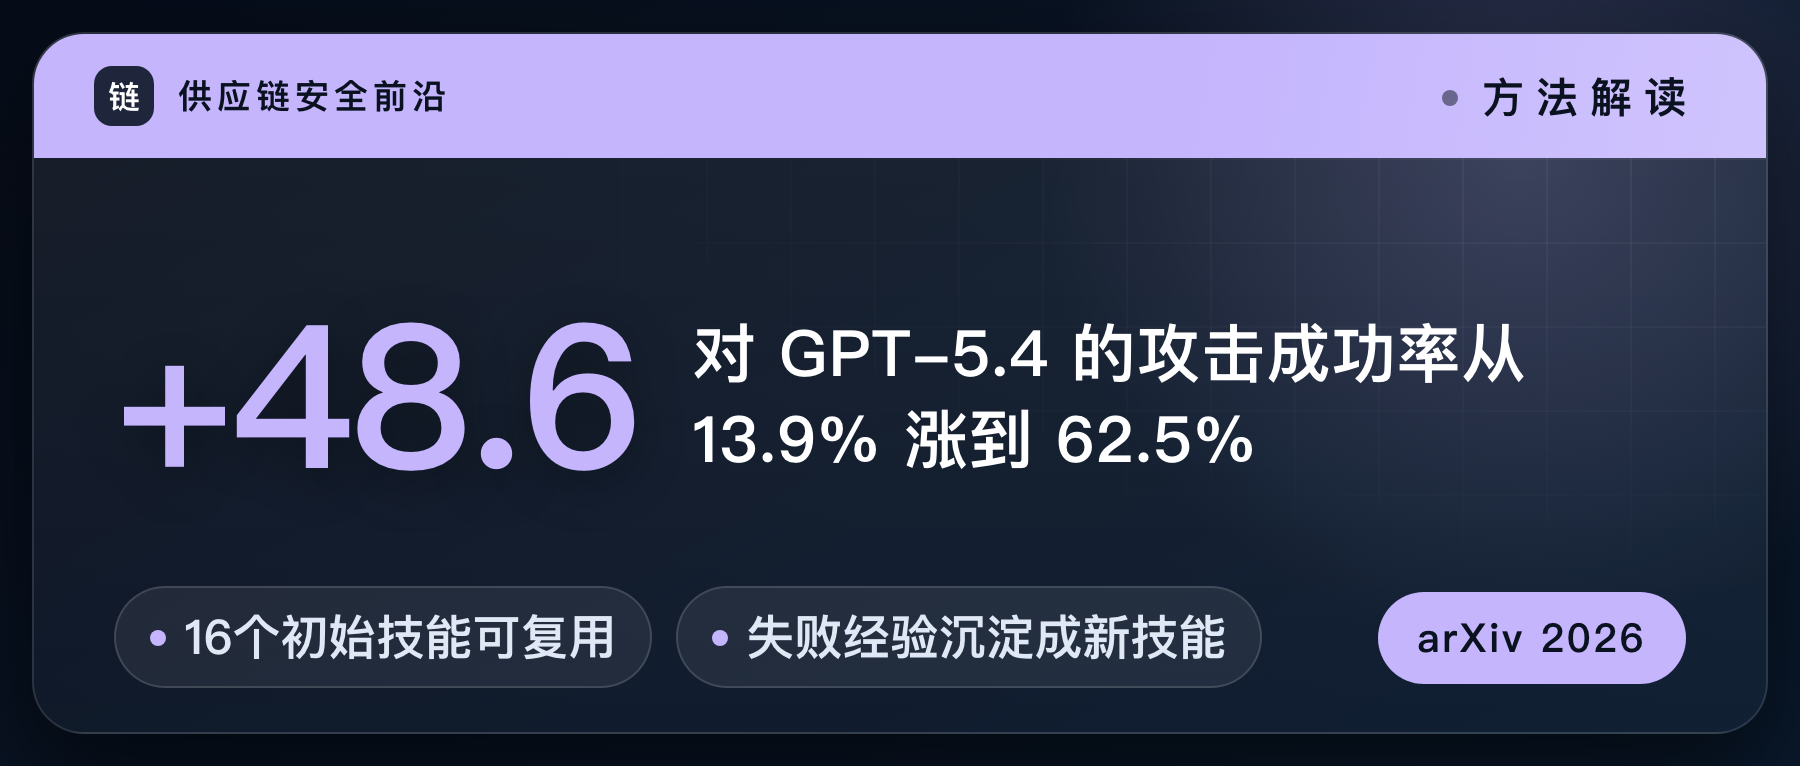
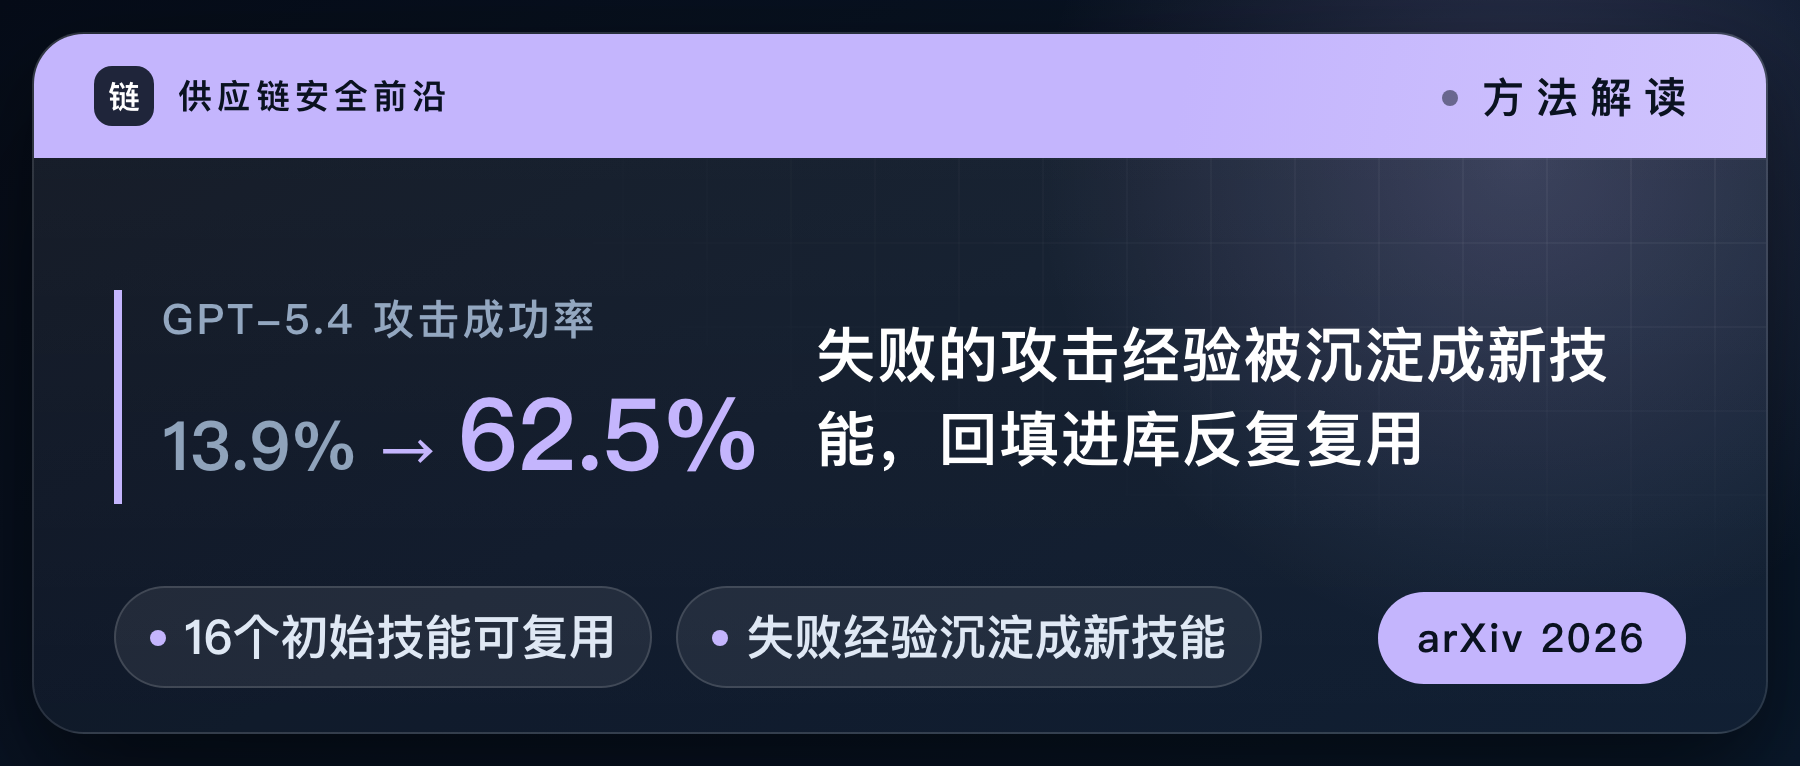
fix: B 版封面从"巨大焦点词"改成"带标签的数据对比"
原设计把 cover_stat 渲成 100px 上下的巨型数字占掉半张封面，两个问题：

1. 没有语境。"+48.6" 这种孤零零的数字，读者不知道是什么的 48.6
2. 和旁边那句结论重复。结论里已经写了"从 13.9% 涨到 62.5%"，
   那个数字是从同一组数据里派生出来的，却拿到了最大的视觉权重

所以不是把字号调小就能解决的，得换结构：

- 数据块改成「标签 + 从 X 到 Y」，左侧一道强调色竖条。标签先说清楚
  这是什么的数字，对比再给出变化，数字降到 46px 左右
- cover_stat 现在接受 "13.9% → 62.5%" 这种对比写法（→ / -> / => 都认），
  只写一个值时箭头自动隐藏
- 新增 cover_stat_label，和 cover_stat 必须同时存在才走 B 版，
  缺一个就退回 A 版。用版式选择来强制"数字必须带语境"
- cover_title 在 B 版里的定位随之改变：不再复述数字，而是接着讲机制或后果

补丁回移和 JailbreakSkill 两篇的封面按新结构重做，草稿已更新。

Claude-Session: https://claude.ai/code/session_01RFo7RVhkE2z328iVJYUyTW

Changed region(s): [[0.0622, 0.3903, 0.9022, 0.6606]]

diff --git a/templates/cover_b.html b/templates/cover_b.html
@@ -8,8 +8,9 @@
          font-family: -apple-system, "PingFang SC", "Hiragino Sans GB", sans-serif;
          -webkit-font-smoothing: antialiased; }
 
-  /* 论文解读封面 B「焦点词」：一个焦点（数字或短语）+ 一句结论 + 两条看点。
-     封面说结论，微信在封面下面自己渲染的标题说全貌，两层信息互补而不重复。 */
+  /* 论文解读封面 B「数据对比」：带标签的一组数字 + 一句互补的结论 + 两条看点。
+     数字必须先有标签说清楚"这是什么的数字"，再给"从 X 到 Y"，
+     否则一个孤零零的大数字既没有语境、又和旁边那句话重复。 */
   .stage { position: relative; width: 900px; height: 383px;
            background: linear-gradient(150deg, #070d19 0%, #0a1526 48%, #0b1b2f 100%); }
   .stage::before { content: ""; position: absolute; right: -120px; top: -180px;
@@ -45,11 +46,18 @@
     background-size: 42px 42px;
     -webkit-mask-image: radial-gradient(120% 120% at 100% 0%, #000 0%, transparent 60%); }
 
-  .hero { position: relative; z-index: 1; display: flex; align-items: center; gap: 26px; flex: 1; }
-  .stat { flex-shrink: 0; color: {{accent}}; font-size: {{stat_size}}px; font-weight: 800;
-          line-height: 1.05; letter-spacing: -1px; white-space: nowrap;
-          text-shadow: 0 6px 24px rgba(0,0,0,.35); }
-  .say { color: #ffffff; font-size: {{title_size}}px; font-weight: 700; line-height: 1.35;
+  .hero { position: relative; z-index: 1; display: flex; align-items: center; gap: 28px; flex: 1; }
+
+  .stat { flex-shrink: 0; border-left: 4px solid {{accent}}; padding-left: 20px; }
+  .stat .lab { color: #93a7c0; font-size: 21px; font-weight: 600; letter-spacing: 1.5px;
+               margin-bottom: 8px; white-space: nowrap; }
+  .stat .pair { display: flex; align-items: baseline; gap: 12px; white-space: nowrap; }
+  .stat .from { color: #8fa3bb; font-size: 34px; font-weight: 700; }
+  .stat .arw { color: {{accent}}; font-size: 26px; font-weight: 700; }
+  .stat .from:empty, .stat .from:empty + .arw { display: none; }  /* 只有一个数时不画箭头 */
+  .stat .to { color: {{accent}}; font-size: {{stat_size}}px; font-weight: 800; letter-spacing: -.5px; }
+
+  .say { color: #ffffff; font-size: {{title_size}}px; font-weight: 700; line-height: 1.4;
          letter-spacing: .5px;
          display: -webkit-box; -webkit-line-clamp: 3; -webkit-box-orient: vertical;
          overflow: hidden; }
@@ -59,7 +67,6 @@
           font-weight: 600; background: rgba(255,255,255,.07);
           border: 1px solid rgba(255,255,255,.14); border-radius: 999px;
           padding: 8px 17px; white-space: nowrap; }
-  .chip:empty { display: none; }
   .chip i { width: 8px; height: 8px; border-radius: 50%; background: {{accent}};
             flex-shrink: 0; display: block; }
   .venue { margin-left: auto; flex-shrink: 0; color: #0a1220; font-weight: 700; font-size: 20px;
@@ -78,7 +85,12 @@
     </div>
     <div class="body">
       <div class="hero">
-        <div class="stat">{{stat}}</div>
+        <div class="stat">
+          <div class="lab">{{stat_label}}</div>
+          <div class="pair">
+            <span class="from">{{stat_from}}</span><span class="arw">→</span><span class="to">{{stat_to}}</span>
+          </div>
+        </div>
         <div class="say">{{title_zh}}</div>
       </div>
       <div class="foot">

diff --git a/scripts/render_cover.py b/scripts/render_cover.py
@@ -1,13 +1,14 @@
 #!/usr/bin/env python3
 """品牌封面渲染：templates/cover_*.html + front matter → 1800x766 PNG。
 
-论文解读有两套版式，A「看点分栏」和 B「焦点词」，共用同一套设计语言，
+论文解读有两套版式，A「看点分栏」和 B「数据对比」，共用同一套设计语言，
 按文章目录名做确定性哈希二选一（同一篇每次渲染结果稳定，整个列表看起来是混排的）。
 会议报告固定走浅色底的 cover_talk.html。
 """
 import argparse
 import html
 import sys
+import re
 import tempfile
 import zlib
 from pathlib import Path
@@ -41,19 +42,30 @@ def _fit(text: str, box_px: int, lines: int, lo: int, hi: int) -> int:
     return max(lo, min(hi, int(box_px * lines / _em(text) * 0.92)))
 
 
+def split_stat(stat: str):
+    """把 "13.9% → 62.5%" 拆成 (前, 后)；没有箭头就只有后一个值。"""
+    parts = re.split(r"\s*(?:→|->|=>)\s*", (stat or "").strip(), maxsplit=1)
+    return (parts[0], parts[1]) if len(parts) == 2 else ("", parts[0])
+
+
 def pick_layout(meta: dict, seed: str) -> str:
-    """A / B 版式二选一：显式指定 > 没有焦点词只能走 A > 按 seed 做确定性哈希。"""
+    """A / B 版式二选一：显式指定 > 数据块不完整只能走 A > 按 seed 做确定性哈希。
+
+    B 版要求 cover_stat 和 cover_stat_label 同时存在：一个没有标签的数字
+    既没有语境、又容易和旁边那句结论重复，所以宁可退回 A 版。
+    """
     explicit = (meta.get("cover_layout") or "").strip().lower()
     if explicit in LAYOUTS:
         return explicit
-    if not (meta.get("cover_stat") or "").strip():
+    if not ((meta.get("cover_stat") or "").strip()
+            and (meta.get("cover_stat_label") or "").strip()):
         return "a"
     return "b" if zlib.crc32(seed.encode("utf-8")) & 1 else "a"
 
 
 def render_cover(title_zh: str, title_en: str, venue: str, out_path: str,
                  kind: str = "", template: str = "", highlights=None,
-                 stat: str = "", layout: str = "a") -> str:
+                 stat: str = "", layout: str = "a", stat_label: str = "") -> str:
     accent, kind_label = KIND_STYLE.get(kind, _DEFAULT)
     if template:
         tpl = Path(template)
@@ -64,16 +76,19 @@ def render_cover(title_zh: str, title_en: str, venue: str, out_path: str,
     page_html = tpl.read_text(encoding="utf-8")
 
     hl = list(highlights or []) + ["", "", ""]
-    # A 版标题在 424px 宽的左栏里排 3 行，B 版说明句在 610px 宽里排 3 行
-    title_box = 610 if layout == "b" and not template else 424
+    stat_from, stat_to = split_stat(stat)
+    is_b = layout == "b" and not template
+    # A 版标题占 424px 宽的左栏，B 版结论句在数据块右边只剩约 450px
+    title_box, title_cap = (450, 30) if is_b else (424, 42)
     fields = {
         "title_zh": title_zh, "title_en": title_en, "venue": venue,
         "accent": accent, "kind_label": kind_label,
         "kind_word": kind_label[:2],          # 老模板的背景水印大字
         "h1": hl[0], "h2": hl[1], "h3": hl[2],
-        "stat": stat,
-        "stat_size": str(_fit(stat, 300, 1, 44, 104)) if stat else "84",
-        "title_size": str(_fit(title_zh, title_box, 3, 24, 42 if title_box < 500 else 32)),
+        "stat": stat, "stat_label": stat_label,
+        "stat_from": stat_from, "stat_to": stat_to,
+        "stat_size": str(_fit(stat_to, 300, 1, 30, 50)) if stat_to else "46",
+        "title_size": str(_fit(title_zh, title_box, 3, 22, title_cap)),
     }
     for key, val in fields.items():
         page_html = page_html.replace("{{" + key + "}}", html.escape(val or ""))
@@ -101,9 +116,10 @@ def render_cover(title_zh: str, title_en: str, venue: str, out_path: str,
 def render_from_dir(paper_dir: str, out_path: str = "") -> str:
     """从 <dir>/article.md 的 front matter 取参数渲染封面。
 
-    用到的字段：cover_title（封面那句结论，缺省退回 title）、cover_stat（焦点词，
-    数字或短语，填了才有资格走 B 版）、cover_layout（可选，强制 a/b）、
-    highlights（三条看点，直接上封面）、title_en、venue、kind。
+    用到的字段：cover_title（封面那句结论，缺省退回 title）、cover_stat（数据，
+    可写成 "13.9% → 62.5%" 的对比，也可只写一个值）、cover_stat_label（这组数
+    是什么，B 版必需）、cover_layout（可选，强制 a/b）、highlights（三条看点，
+    直接上封面）、title_en、venue、kind。
     """
     sys.path.insert(0, str(Path(__file__).resolve().parent))
     from render_article import parse_front_matter
@@ -116,7 +132,8 @@ def render_from_dir(paper_dir: str, out_path: str = "") -> str:
     return render_cover(meta.get("cover_title") or meta.get("title", ""),
                         meta.get("title_en", ""), meta.get("venue", ""), out,
                         meta.get("kind", ""), "", meta.get("highlights", []),
-                        (meta.get("cover_stat") or "").strip(), layout)
+                        (meta.get("cover_stat") or "").strip(), layout,
+                        (meta.get("cover_stat_label") or "").strip())
 
 
 if __name__ == "__main__":
@@ -128,7 +145,8 @@ if __name__ == "__main__":
     ap.add_argument("--venue", default="")
     ap.add_argument("--kind", default="",
                     help="论文类型 survey/benchmark/method/empirical/system，决定点缀色与标签")
-    ap.add_argument("--stat", default="", help="B 版的焦点词（数字或短语）")
+    ap.add_argument("--stat", default="", help='B 版的数据，如 "13.9% → 62.5%" 或单个值')
+    ap.add_argument("--stat-label", default="", help="B 版数据块的标签，说明这是什么的数字")
     ap.add_argument("--hl", action="append", default=[], help="看点，可重复，最多 3 条")
     ap.add_argument("--layout", default="a", choices=["a", "b"], help="版式，默认 a")
     ap.add_argument("--template", default="", help="覆盖模板路径，试新版式时用")
@@ -140,4 +158,4 @@ if __name__ == "__main__":
     if not a.title_zh or not a.out:
         ap.error("需要 --title-zh 与 --out（或改用 --from <文章目录>）")
     print("cover ->", render_cover(a.title_zh, a.title_en, a.venue, a.out, a.kind,
-                                   a.template, a.hl, a.stat, a.layout))
+                                   a.template, a.hl, a.stat, a.layout, a.stat_label))

diff --git a/pipeline/PAPER_WORKFLOW.md b/pipeline/PAPER_WORKFLOW.md
@@ -124,8 +124,12 @@ front matter 里和封面相关的字段：
 
 - `cover_title:` **写结论，不写主题**。反例"越狱护栏到底挡得住什么"（提问式主题），
   正例"13 个越狱护栏，挡不住一次多轮攻击"（结论）。20 到 36 字之间最稳，两套版式都排得下。
-- `cover_stat:` 焦点词，数字或 ≤6 字短语（"90%+"、"24%"、"Level 0"）。**填了才有资格走 B 版**，
-  不填就固定走 A 版。字号会按长度自动缩放，不用自己调。
+- `cover_stat:` B 版数据块里的数字。**优先写成对比**，如 `13.9% → 62.5%`、`85.2% -> 24.0%`；
+  只有一个值时直接写 `45.83%`，箭头会自动隐藏。字号按长度自动缩放，不用自己调。
+- `cover_stat_label:` 这组数字**是什么**，如"GPT-5.4 攻击成功率"。和 `cover_stat` 一起构成
+  B 版的数据块，**两个都填才有资格走 B 版**，缺一个就退回 A。这条是硬约束：
+  早期版本让一个孤零零的大数字占满半张封面，结果既没有语境（读者不知道是什么的数），
+  又和旁边那句结论重复（结论里已经念了一遍这个数），是设计上的双重浪费。
 - `cover_layout:` 可选，填 `a` 或 `b` 强制版式；不填就按目录名做确定性哈希二选一
   （同一篇每次渲染结果稳定，整个列表看起来是混排的）。
 - `highlights:` 三条看点现在会直接上封面，不用另外写。注意 **B 版只显示前两条**，
@@ -139,10 +143,11 @@ front matter 里和封面相关的字段：
 | 版式 | 结构 | 适用 |
 |---|---|---|
 | **A 看点分栏** | 左边结论大标题 + 会议徽章，右边竖线分出三条看点 | 通用，每篇都有三条看点 |
-| **B 焦点词** | 一个巨大的焦点词 + 一句结论，底部两条看点 + 会议徽章 | 有一个扛得住的数字或短语时 |
+| **B 数据对比** | 左边带标签的数据块（从 X 到 Y），右边一句**和数字互补**的结论，底部两条看点 + 会议徽章 | 有一组说得清的数字时 |
 
 - 会议报告不走这两套，`kind: talk` 自动套 `templates/cover_talk.html`（浅色底 + 左侧竖排色条），
   见 TALK_WORKFLOW.md。
+- **B 版的 `cover_title` 不要复述数字**，数据块已经把数说了，这句要接着往下讲机制或后果。
 - 改了 `highlights` 的顺序要重跑 `render_article.py`，因为正文顶部的看点卡也用这三条。
 - 仍可用 `--title-zh/--stat/--hl/--layout/--out` 手动指定，试新版式时配 `--template`。
 - 用 Read 目视封面，文字溢出或折行难看就缩短 `cover_title` 重渲。

diff --git a/papers/2026-08-porting-benchmark/article.md b/papers/2026-08-porting-benchmark/article.md
@@ -2,8 +2,9 @@
 title: 自动补丁回移工具号称八九成成功率，统一基准一考：结构复杂的补丁只剩 24%
 title_en: "Benchmarking Automated Security Patch Backporting: How Far Are We?"
 kind: benchmark
-cover_title: 结构复杂的补丁，自动回移只剩 24% 成功率
-cover_stat: 24%
+cover_title: 补丁越需要跨函数调用链铺开，自动回移越接不住
+cover_stat: "85.2% → 24.0%"
+cover_stat_label: 结构复杂补丁的回移成功率
 digest: 一个漏洞在主线修好后，要回移到各个 LTS 分支、下游分叉，这就是补丁回移，Nday 防护的关键一环。现有自动化工具各家号称 80% 到 95% 成功率，但都在自己的数据集上自测、没法比。西电、南开、NTU 团队建了 1234 例的统一基准，把 5 个工具拉到同一张考卷：对齐评测后成功率集体跳水，结构复杂的补丁从 85% 掉到 24%，根因是补丁改动要跨函数调用链铺开、工具只能补一半。
 author: 供应链安全前沿
 venue: ASE 2026

diff --git a/papers/2026-08-jailbreakskill/article.md b/papers/2026-08-jailbreakskill/article.md
@@ -2,8 +2,9 @@
 title: 把越狱手法打包成 Agent Skill，失败经验自己长出新攻击：GPT-5.4 成功率从 13.9% 涨到 62.5%
 title_en: "JailbreakSkill: Scaling Automated Red-Teaming with Reusable and Ever-Evolving Skills"
 kind: method
-cover_title: 对 GPT-5.4 的攻击成功率从 13.9% 涨到 62.5%
-cover_stat: "+48.6"
+cover_title: 失败的攻击经验被沉淀成新技能，回填进库反复复用
+cover_stat: "13.9% → 62.5%"
+cover_stat_label: GPT-5.4 攻击成功率
 digest: 上海 AI Lab 等把越狱手法按 Agent Skill 的格式打包成 16 个可复用技能，再让失败经验反过来精炼、组合、发现新技能。技能化的价值不在找到最强的那一个，而在保留互补机制：并集覆盖比最强单技能高 18.6 个百分点。
 author: 供应链安全前沿
 venue: arXiv 2026

diff --git a/templates/article_template.md b/templates/article_template.md
@@ -6,7 +6,8 @@ author: 供应链安全前沿
 venue: （会议/期刊 + 年份，如 ICSE 2026；未知则 arXiv + 年份）
 kind: （survey/benchmark/method/empirical/system，见 PAPER_WORKFLOW.md §2.5，决定排版强调色）
 cover_title: （封面那句**结论**，20-36 字；不是主题也不是标题的缩写，见 PAPER_WORKFLOW §5）
-cover_stat: （封面焦点词，数字或 ≤6 字短语，如 90%+ / 24% / Level 0；不填则封面固定走 A 版）
+cover_stat: （封面数据，优先写成对比如 13.9% → 62.5%，也可只写一个值）
+cover_stat_label: （这组数字是什么，如 GPT-5.4 攻击成功率；和 cover_stat 都填才走 B 版）
 collection: （发布时手动勾选的合集，见 PAPER_WORKFLOW.md 合集清单）
 highlights:
   - （看点一，≤14字）
